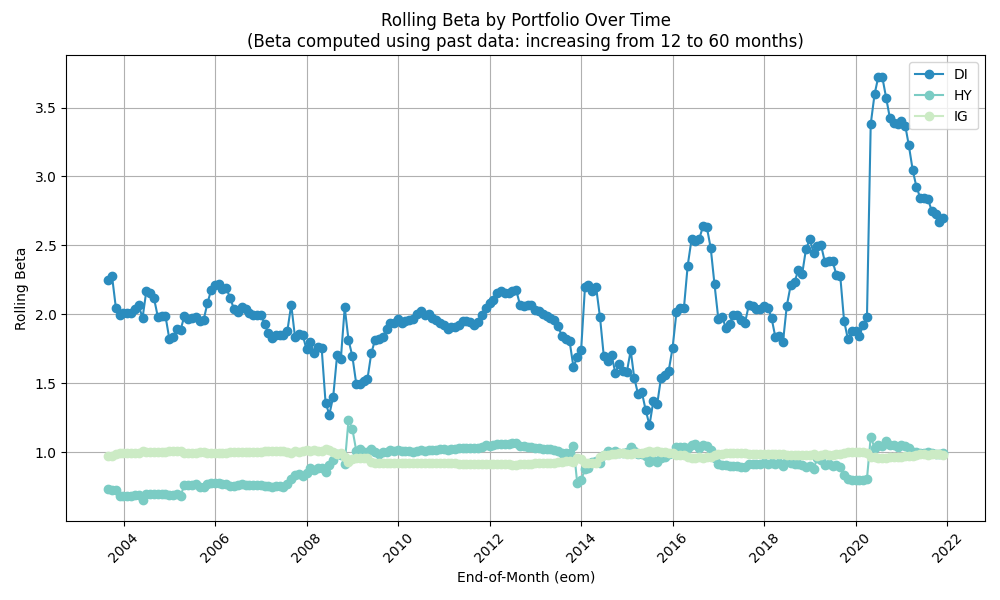
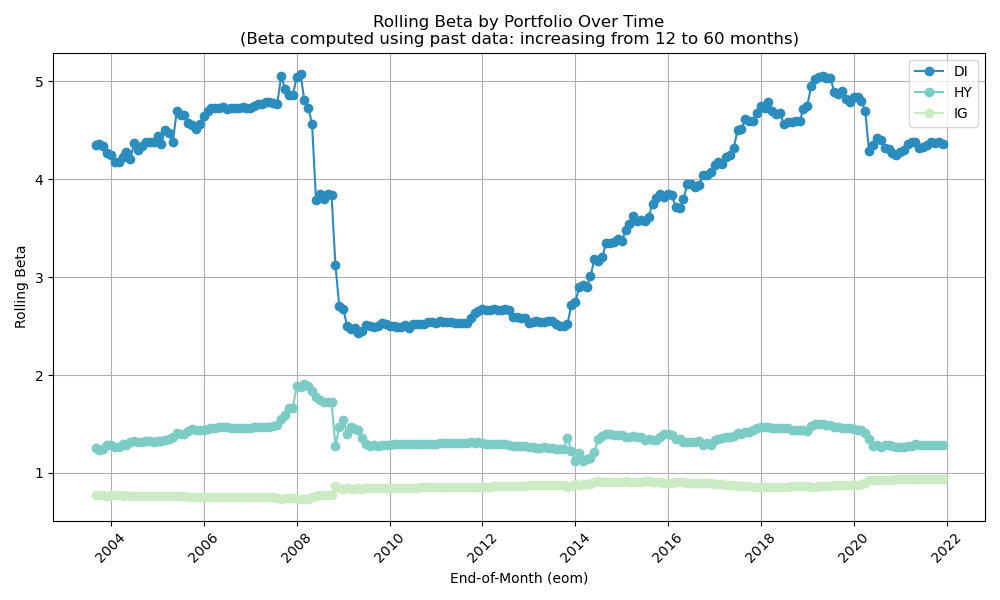
testing betas

diff --git a/py_code/model_setup.py b/py_code/model_setup.py
@@ -24,11 +24,13 @@ figures_folder = project_dir + "/figures"
 
 # Importing the cleaned data
 bond_data = pd.read_csv(data_folder + "/preprocessed/bond_data.csv")
-model_data = bond_data[['eom', 'cusip', 'ret_exc', 'credit_spread_past', 'rating_class_past', 'market_value_past', 'price_eom', 'price_eom_past', 'offering_date']]
+model_data = bond_data[['eom', 'cusip', 'ret_exc', 'ret_texc', 'credit_spread_past', 'rating_class_past', 'market_value_past', 'price_eom', 'price_eom_past', 'offering_date']]
 model_data['eom'] = pd.to_datetime(model_data['eom'])
 model_data['offering_date'] = pd.to_datetime(model_data['offering_date'])
 model_data.to_csv("data/preprocessed/model_data.csv") #saving the smaller dataframe
 
+#================================== TEST - MAYBE REMOVE============================================
+model_data['ret_exc'] = model_data['ret_texc']
 # ===================================================================    
 #                     a. Set up portfolios by month        
 # ===================================================================
@@ -178,19 +180,19 @@ print("Done calculating rolling betas")
 # --- Plot the Rolling Betas for Each Portfolio ---
 cmap = cm.get_cmap('GnBu', 5).reversed()
 
-# plt.figure(figsize=(10, 6))
-# for i, portfolio in enumerate(sorted(beta_df['portfolio'].unique())):
-#     sub_df = beta_df[beta_df['portfolio'] == portfolio]
-#     plt.plot(sub_df['eom'], sub_df['beta'], marker='o', label=portfolio, color=cmap(i+1))
-# plt.xlabel("End-of-Month (eom)")
-# plt.ylabel("Rolling Beta")
-# plt.title("Rolling Beta by Portfolio Over Time\n(Beta computed using past data: increasing from 12 to 60 months)")
-# plt.legend()
-# plt.xticks(rotation=45)
-# plt.grid(True)
-# plt.tight_layout()
-# plt.savefig(figures_folder + "/rolling_beta_by_portfolio.png")
-# plt.close()
+plt.figure(figsize=(10, 6))
+for i, portfolio in enumerate(sorted(beta_df['portfolio'].unique())):
+    sub_df = beta_df[beta_df['portfolio'] == portfolio]
+    plt.plot(sub_df['eom'], sub_df['beta'], marker='o', label=portfolio, color=cmap(i+1))
+plt.xlabel("End-of-Month (eom)")
+plt.ylabel("Rolling Beta")
+plt.title("Rolling Beta by Portfolio Over Time\n(Beta computed using past data: increasing from 12 to 60 months)")
+plt.legend()
+plt.xticks(rotation=45)
+plt.grid(True)
+plt.tight_layout()
+plt.savefig(figures_folder + "/rolling_beta_by_portfolio.png")
+plt.close()
 
 # ===================================================================    
 #           e.  Calculate capital gain overhang  (CGO)      
